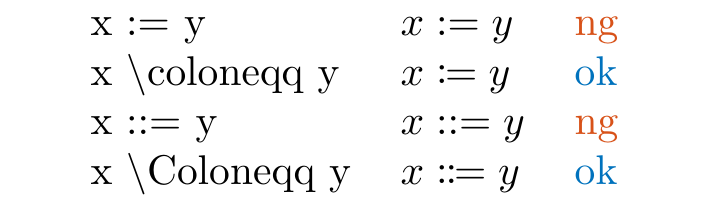
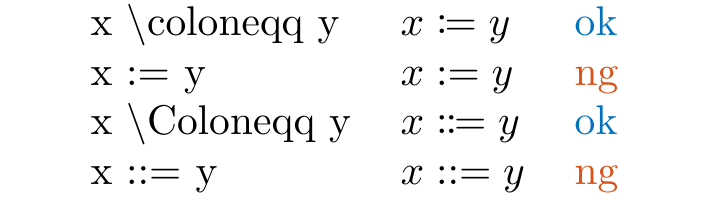
update doc and README

diff --git a/doc/LLColonEqq.tex b/doc/LLColonEqq.tex
@@ -20,10 +20,10 @@
 \begin{table}[h]
     \centering
     \begin{tabular}{lll}
-        x := y                   & $x := y$        & \tD{ng} \\
         x $\backslash$coloneqq y & $x \coloneqq y$ & \tA{ok} \\
-        x ::= y                  & $x ::= y$       & \tD{ng} \\
-        x $\backslash$Coloneqq y & $x \Coloneqq y$ & \tA{ok}
+        x := y                   & $x := y$        & \tD{ng} \\
+        x $\backslash$Coloneqq y & $x \Coloneqq y$ & \tA{ok} \\
+        x ::= y                  & $x ::= y$       & \tD{ng}
     \end{tabular}
 \end{table}
 \end{document}

diff --git a/doc/LLSI.tex b/doc/LLSI.tex
@@ -19,8 +19,8 @@
 \begin{table}[h]
     \centering
     \begin{tabular}{lll}
-        1kB                                                     & 1kB                & \tD{ng} \\
-        $\backslash$SI\{1\}\{$\backslash$kilo$\backslash$byte\} & \SI{1}{\kilo\byte} & \tA{ok}
+        $\backslash$SI\{1\}\{$\backslash$kilo$\backslash$byte\} & \SI{1}{\kilo\byte} & \tA{ok} \\
+        1kB                                                     & 1kB                & \tD{ng}
     \end{tabular}
 \end{table}
 \end{document}

diff --git a/README.md b/README.md
@@ -170,13 +170,7 @@ You should likely use the `equation` environment.
 
 The spacing of the `align` environment is [different](https://tex.stackexchange.com/questions/239550/what-is-the-difference-between-align-and-equation-environment-when-i-only-want-t) from the `equation` environment with only one equation.
 
-It is up to you which one to use, but `amsmath` official documentation suggests using the `equation` environment for only one equation.
-
-> The equation environment is for a single equation with an automatically generated number.
-> ......
-> The align environment is used for two or more equations when vertical alignment is desired;
-
-By [amsmath](https://ctan.org/pkg/amsmath) official document.
+It is up to you which one to use, but `amsmath` [official documentation](https://ctan.org/pkg/amsmath) suggests using the `equation` environment for only one equation.
 
 You can rename the command by [LaTeX Lint: Rename \begin{} or \end{}](#latex-lint-rename-begin-or-end).
 
@@ -266,11 +260,7 @@ You should likely use `--` for en-dash and `---` for em-dash.
 
 ![doc/LLENDash](https://github.com/hari64boli64/latexlint/blob/master/doc/LLEnDash.png?raw=true)
 
-[Wikipedia](https://en.wikipedia.org/wiki/Dash#En_dash) says,
-> Preference for an en dash instead of a hyphen in these coordinate/relationship/connection types of terms is a matter of style, not inherent orthographic "correctness";
-Therefore, it is not mandatory to follow this rules.
-
-Still, in a lot of cases, use of en dash is preferred, including [Wikipedia:Manual of Style](https://en.wikipedia.org/wiki/Wikipedia:Manual_of_Style#Dashes).
+Although this rule is [not inherent orthographic "correctness"](https://en.wikipedia.org/wiki/Dash#En_dash), in a lot of cases, use of en dash is [preferred](https://en.wikipedia.org/wiki/Wikipedia:Manual_of_Style#Dashes).
 
 For example, we detect the following.
 
@@ -372,16 +362,16 @@ You should likely use `\SI` instead, like `\SI{1}{\kilo\byte}`(10^3byte) and `\S
 
 ![doc/LLSI](https://github.com/hari64boli64/latexlint/blob/master/doc/LLSI.png?raw=true)
 
-| Prefix  | Command  | Symbol  | Power | Prefix  | Command  | Symbol  | Power|
-|:-------:|:--------:|:-------:|:-----:|:-------:|:--------:|:-------:|:----:|
-|  kilo   |  \kilo   |    k    |   3   |  kibi   |  \kibi   |   Ki    |  10  |
-|  mega   |  \mega   |    M    |   6   |  mebi   |  \mebi   |   Mi    |  20  |
-|  giga   |  \giga   |    G    |   9   |  gibi   |  \gibi   |   Gi    |  30  |
-|  tera   |  \tera   |    T    |  12   |  tebi   |  \tebi   |   Ti    |  40  |
-|  peta   |  \peta   |    P    |  15   |  pebi   |  \pebi   |   Pi    |  50  |
-|  exa    |  \exa    |    E    |  18   |  exbi   |  \exbi   |   Ei    |  60  |
-|  zetta  |  \zetta  |    Z    |  21   |  zebi   |  \zebi   |   Zi    |  70  |
-|  yotta  |  \yotta  |    Y    |  24   |  yobi   |  \yobi   |   Yi    |  80  |
+| Prefix  | Command  | Symbol  | Power |
+|:-------:|:--------:|:-------:|:-----:|
+|  kilo   |  \kilo   |    k    |   3   |
+|  mega   |  \mega   |    M    |   6   |
+|  giga   |  \giga   |    G    |   9   |
+|  tera   |  \tera   |    T    |  12   |
+|  peta   |  \peta   |    P    |  15   |
+|  exa    |  \exa    |    E    |  18   |
+|  zetta  |  \zetta  |    Z    |  21   |
+|  yotta  |  \yotta  |    Y    |  24   |
 
 It would be better to use `\SI` for units such as `m`, `s`, `kg`, `A`, `K`, `mol`, and `rad`.
 
